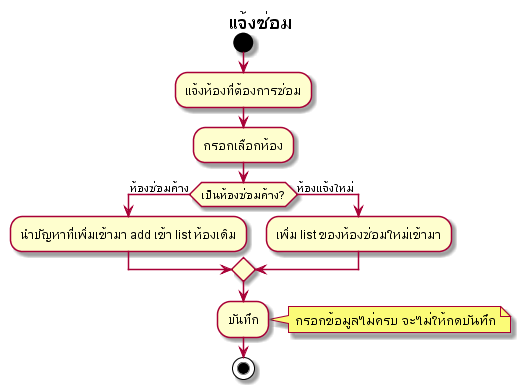
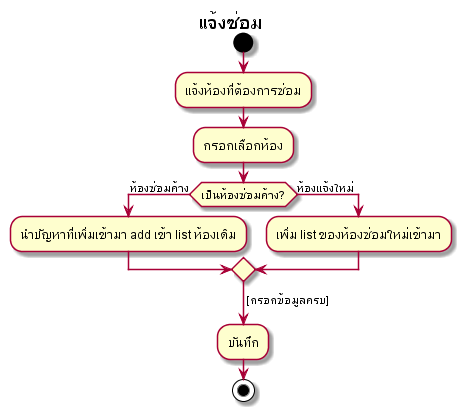
edit comment p' on

Changed region(s): [[0.0, 0.0308, 1.0, 1.0]]

diff --git a/README.md b/README.md
@@ -77,21 +77,24 @@
 ![Extra diagram](out/activity-diagram/reservation/cancelreservation/ยกเลิกการจองห้อง.png)
 ---
 
-### Management
+## Management
 
-#### Guest in house 
+### Guest in house 
 ![Guest in house diagram](out/activity-diagram/Management/Guest_in_House/Guest_in_House.png)
 
-#### ร.ร.๔ 
+### ร.ร.๔ 
 ![LL4 diagram](out/activity-diagram/Management/LL4/ร.ร.๔.png)
 
-#### ใบเสร็จ 
+### ใบเสร็จ 
 ![Bill diagram](out/activity-diagram/Management/Bill/ใบเสร็จ.png)
 
-#### Cashier Report 
-![Cashier Report diagram](out/activity-diagram/Management/Cashier_report/Cashier_report.png)
+### Cashier Report 
+#### Cashier Report
+![Cashier Report diagram](out/activity-diagram/Management/Cashier_report/การปิดกะ.png)
+#### ลบรายรับอื่นๆที่ผิด
+![Cashier Report diagram](out/activity-diagram/Management/setcashier/iiii.png)
 
-#### ขอใบกำกับภาษี
+### ขอใบกำกับภาษี
 ![Tax Invoice add diagram](out/activity-diagram/Management/TaxInvoice/ขอใบกำกับภาษี.png) 
 
 ---

diff --git a/activity-diagram/Management/Cashier_report.md b/activity-diagram/Management/Cashier_report.md
@@ -1,24 +1,21 @@
 @startuml
 start
 
-title Cashier report
+title การปิดกะ
+:เปิดกะเริ่มทำงาน;
+if (มีรายรับอื่นนอกจาก front?) then (มี)
 
-if (มีการจัดการรายรับอื่นๆหรือไม่?) then (ใช่)
-
-if (เพิ่มรายการ หรือ ลบรายการ) then (เพิ่ม)
 :กรอกข้อมูล;
-else(ลบ)
-:ลบรายการ;
-endif
 :บันทึก;
 
-else (ไม่ใช่)
-note right
-พิมพ์กะปัจจุบัน=ปิดกะ
-end note
+else (ไม่มี)
 endif
+:เช็คยอดเงินสดกับยอดเงินในระบบ;
+note right
+ถ้าเงินสดที่นับกับยอดเงินในระบบ ไม่เท่ากัน ต้องเขียนเหตุผลลงในสมุด logbook และ ใบรายงานcashier report
+end note
+:ปิดกะ;
 :พิมพ์;
-
-
 stop
 @enduml
+

diff --git a/activity-diagram/room/executive.md b/activity-diagram/room/executive.md
@@ -6,11 +6,11 @@ start
 if (เป็นห้องว่าง?) then (ห้องไม่ว่าง)
 :ขึ้นแจ้งเตือนห้องนี้ไม่ว่าง;
 else(ห้องว่าง)
-:เพิ่ม list ของห้องซ่อมใหม่เข้ามา;
+:เพิ่ม list ของห้องพักใหม่เข้ามา;
 endif
+-> [กรอกข้อมูลครบ];
 :บันทัก;
-note right
-ถ้ากรอกข้อมูลไม่ครบ จะไม่สามรถกดบันทึกได้
-end note
+
+
 stop
 @enduml

diff --git a/activity-diagram/reservation/cancelreservation.md b/activity-diagram/reservation/cancelreservation.md
@@ -2,9 +2,9 @@
 title ยกเลิกการจองห้อง
 start
 :เลือก Master ที่ต้องการยกเลิกการจองห้องพักล่วงหน้า;
+-> [ต้องใส่หมายเหตุการยกเลิกการจองห้องพักถึงจะกดบันทึกได้];
 :บันทึก;
-note right
-ต้องใส่หมายเหตุการยกเลิกการจองห้องพักถึงจะกดบันทึกได้
-end note
+
+
 stop
 @enduml

diff --git a/activity-diagram/reservation/addreservation.md b/activity-diagram/reservation/addreservation.md
@@ -5,13 +5,13 @@ start
 
 partition ref {
 	:เลือกห้องพักที่ว่าง;
-}
--> ถ้าข้อมูลไม่ครบกดไปต่อไม่ได้;
+} 
+-> [ถ้าข้อมูลไม่ครบกดไปต่อไม่ได้]; 
 partition ref {
 	:คิดเงิน;
 }
 note right
-เงินที่  นำมาแสดง คือเงินสำรองจ่าย(เป็น 0 บาทได้) 
+เงินสำรองจ่ายสามารถเป็น 0 ได้ 
 end note
 stop
 @enduml

diff --git a/activity-diagram/reservation/editreservation.md b/activity-diagram/reservation/editreservation.md
@@ -15,7 +15,7 @@ partition ref {
 	:คิดเงิน;
 }
 note left
-เงินที่นำมาแสดง คือเพิ่มเงินสำรองจ่าย(เป็น 0 บาทได้) 
+เงินสำรองจ่ายสามารถเป็น 0 ได้ 
 end note
 else(ไม่มี)
 endif

diff --git a/activity-diagram/room/deleteexecutive.md b/activity-diagram/room/deleteexecutive.md
@@ -3,5 +3,6 @@ title : แจ้งออกห้องพักผู้บริหาร
 start
 :เลือกห้องที่แจ้งออก;
 :ยืนยันหมายเลขห้องที่แจ้งออก;
+:บันทึก;
 stop
 @enduml

diff --git a/activity-diagram/Management/setcashier.md b/activity-diagram/Management/setcashier.md
@@ -1,0 +1,9 @@
+@startuml
+title กรอกรายรับอื่นๆ ผิด
+start
+:เลือกรายการที่ต้องการลบ;
+:ยืนยันการลบรายการ;
+:บันทึก;
+
+stop
+@enduml

diff --git a/activity-diagram/room/ooo.md b/activity-diagram/room/ooo.md
@@ -3,5 +3,6 @@ title : ซ่อมห้องเสร็จ
 start
 :เลือกห้องที่ซ่อมเสร็จ;
 :ยืนยันหมายเลขห้องที่ซ่อม;
+:บันทึก;
 stop
 @enduml
